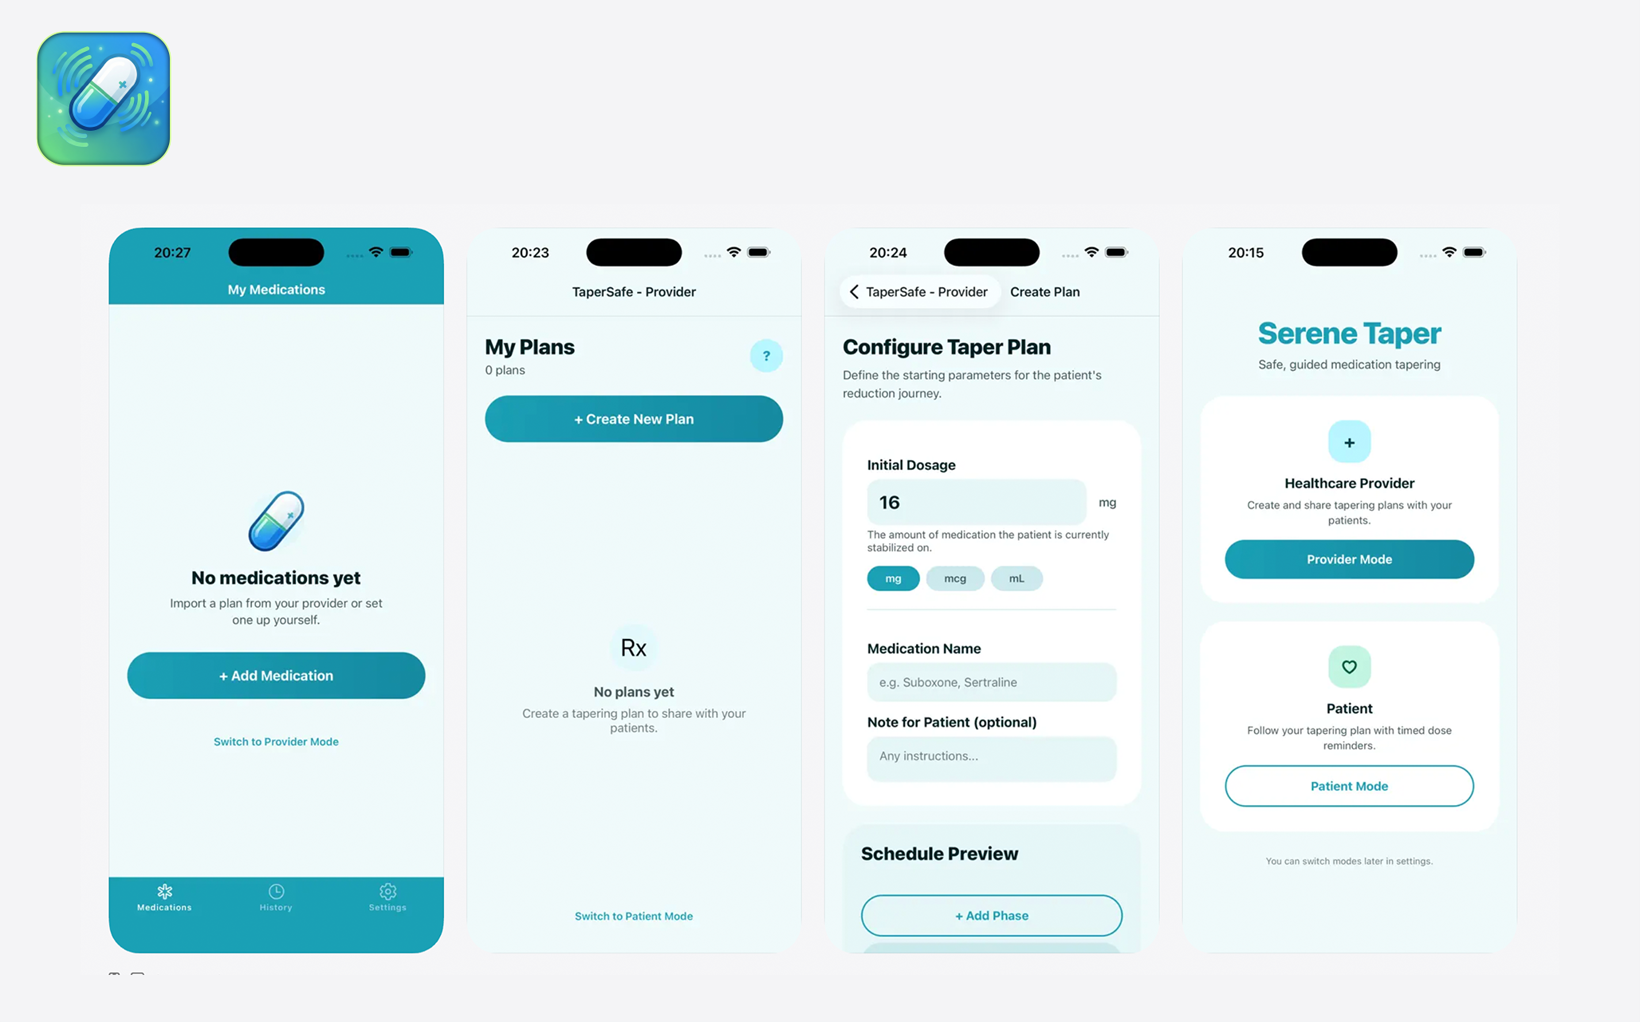
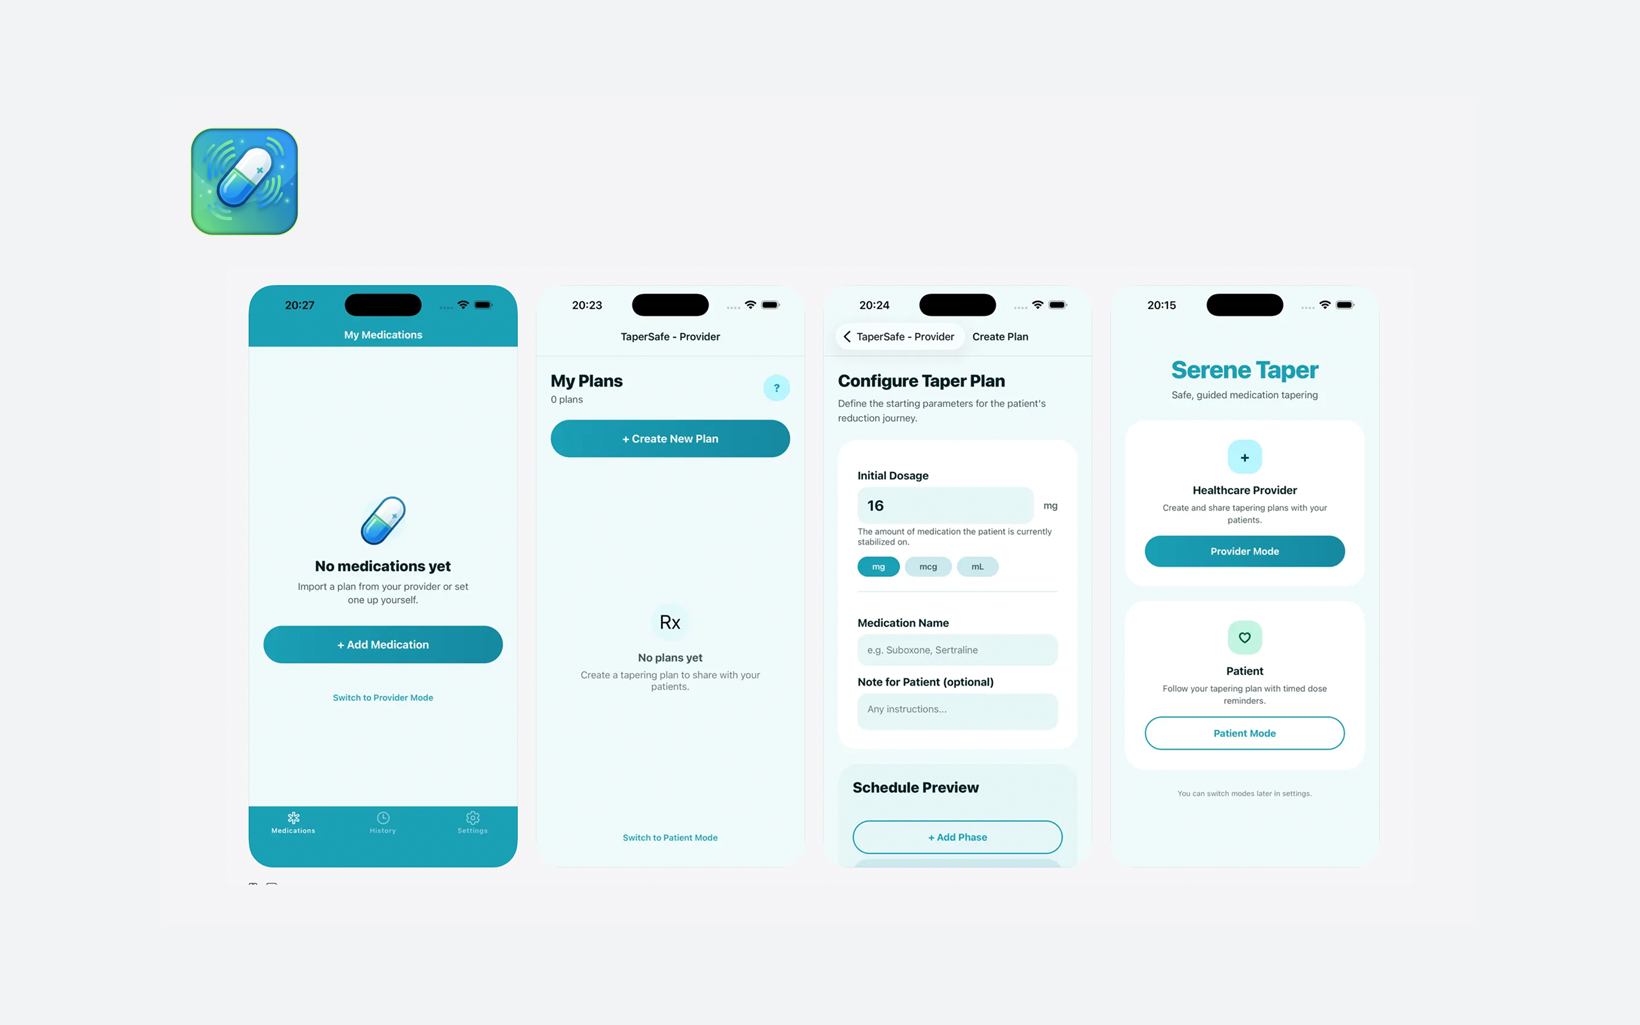
Fix TaperSafe art clipping under parallax
The artwork was composed to fit the frame exactly, so the 114%
parallax oversize cropped the app icon and screen bottoms. Re-padded
the composition (content now ~80% of canvas on its own background)
and softened the drift from +/-30px to +/-22px. Verified the icon
stays 22px inside the mask at full drift.

diff --git a/main.js b/main.js
@@ -853,7 +853,7 @@ function trackEvent(path) {
             if (r.bottom < 0 || r.top > vh) return;
             // -0.5 (entering at bottom) .. +0.5 (leaving at top)
             var p = ((r.top + r.height / 2) - vh / 2) / vh;
-            m.style.setProperty('--py', (p * -30).toFixed(1) + 'px');
+            m.style.setProperty('--py', (p * -22).toFixed(1) + 'px');
         });
     }
     function onScroll() {

diff --git a/index.html b/index.html
@@ -485,7 +485,7 @@
     </div>
 </div>
 
-<script src="main.js?v=14" defer></script>
+<script src="main.js?v=15" defer></script>
 <script src="agent.js?v=18" defer></script>
 <script data-goatcounter="https://ilans.goatcounter.com/count" async src="//gc.zgo.at/count.js"></script>
 </body>
